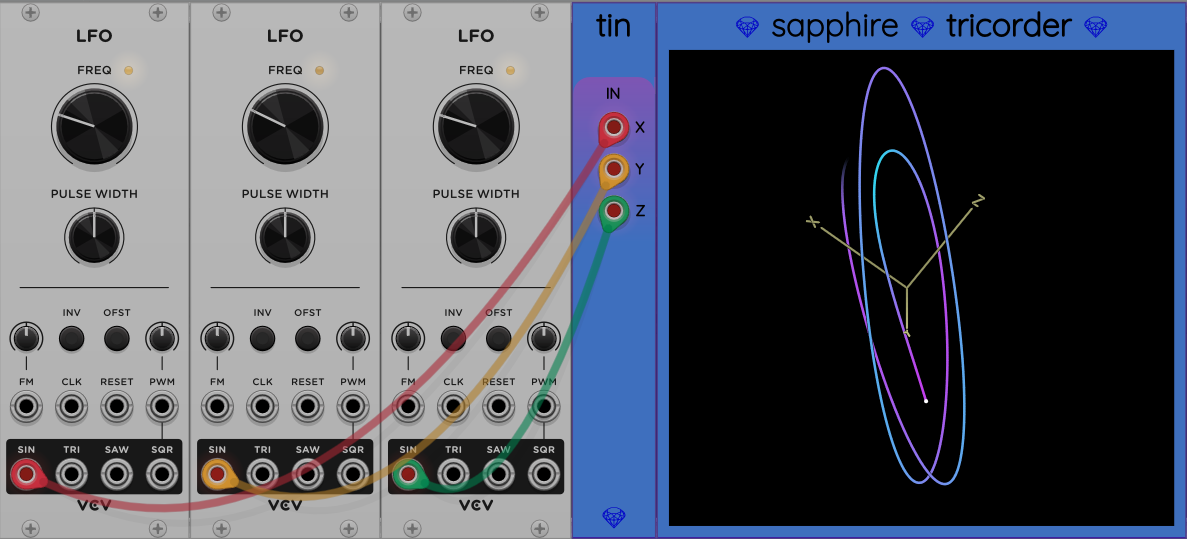
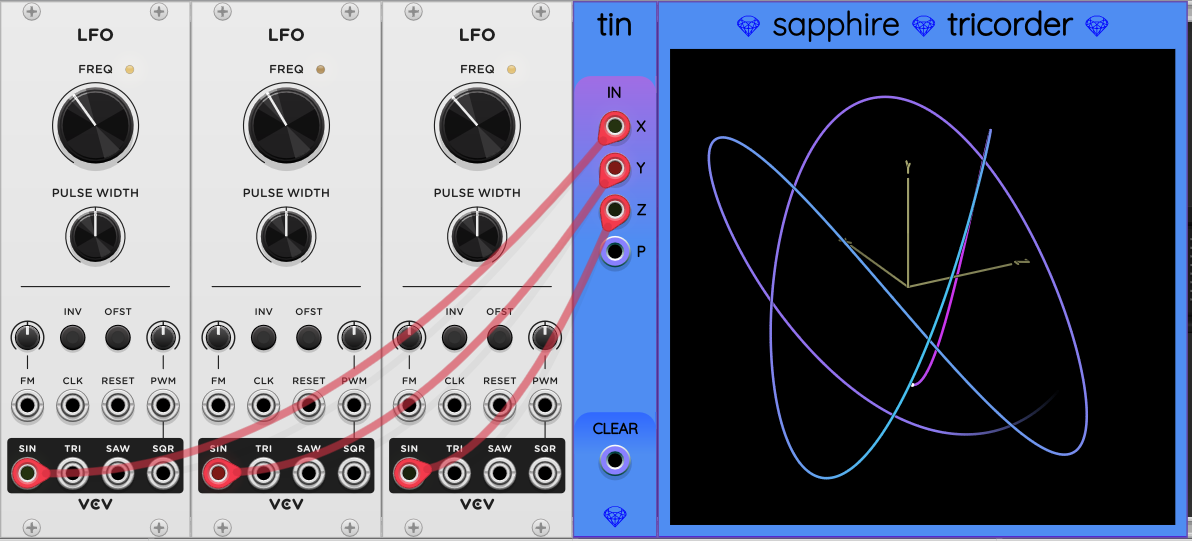
Tin: updated documention to mention new ports: CLEAR and P.

diff --git a/Tin.md b/Tin.md
@@ -9,3 +9,21 @@ All you have to do is place Tin to the immediate left of Tricorder and it they w
 the signal path for you:
 
 ![Tin and Tricorder](images/tin_tricorder.png)
+
+The X, Y, and Z ports convert sum signals on any polyphonic cables into a single voltage.
+
+You can also provide a polyphonic input to the P port. Ideally, the input cable will have 3 channels for X, Y, and Z:
+
+![Tin with polyphonic input](images/tin_tricorder_polyphonic.png)
+
+If both monophonic and polyphonic inputs are provided, the respective values are added together to get effective X, Y, and Z inputs:
+
+```
+x = sum(X) + P[0]
+y = sum(Y) + P[1]
+z = sum(Z) + P[2]
+```
+
+where `sum(X)` represents the sum of all the channel voltages of the cable connected to the X port, `P[0]` represents the voltage of channel 0 on the P port, if it exists, and so on.
+
+The CLEAR input is a trigger that tells Tricorder to clear the screen. After clearing the screen Tricorder starts accumulating and graphing data again as soon as it's available.

diff --git a/CHANGELOG.md b/CHANGELOG.md
@@ -9,13 +9,14 @@
 </tr>
 
 <tr valign="top">
-<td align="center">11 Feb 2024</td>
+<td align="center">13 Feb 2024</td>
 <td align="center">2.4.1</td>
 <td align="left">
     <ul>
         <li>Nucleus <a href="https://github.com/cosinekitty/sapphire/issues/30">issue #30</a>: watch out for infinite/NAN input. If it happens, reset the internal state and keep going.</li>
         <li>Elastika, Nucleus, and Tube Unit now auto-reset if infinite/NAN output is detected, and indicate the problem by turning the OUTPUT level knob bright pink for 1 second, every time it happens.</li>
         <li>Frolic and Glee now provide an additional polyphonic output with the entire vector represented as a 3-channel port.</li>
+        <li>Tin now provides an additional polyphonic input to feed in a 3-channel (X, Y, Z) input vector.</li>
     </ul>
 </td>
 </tr>
